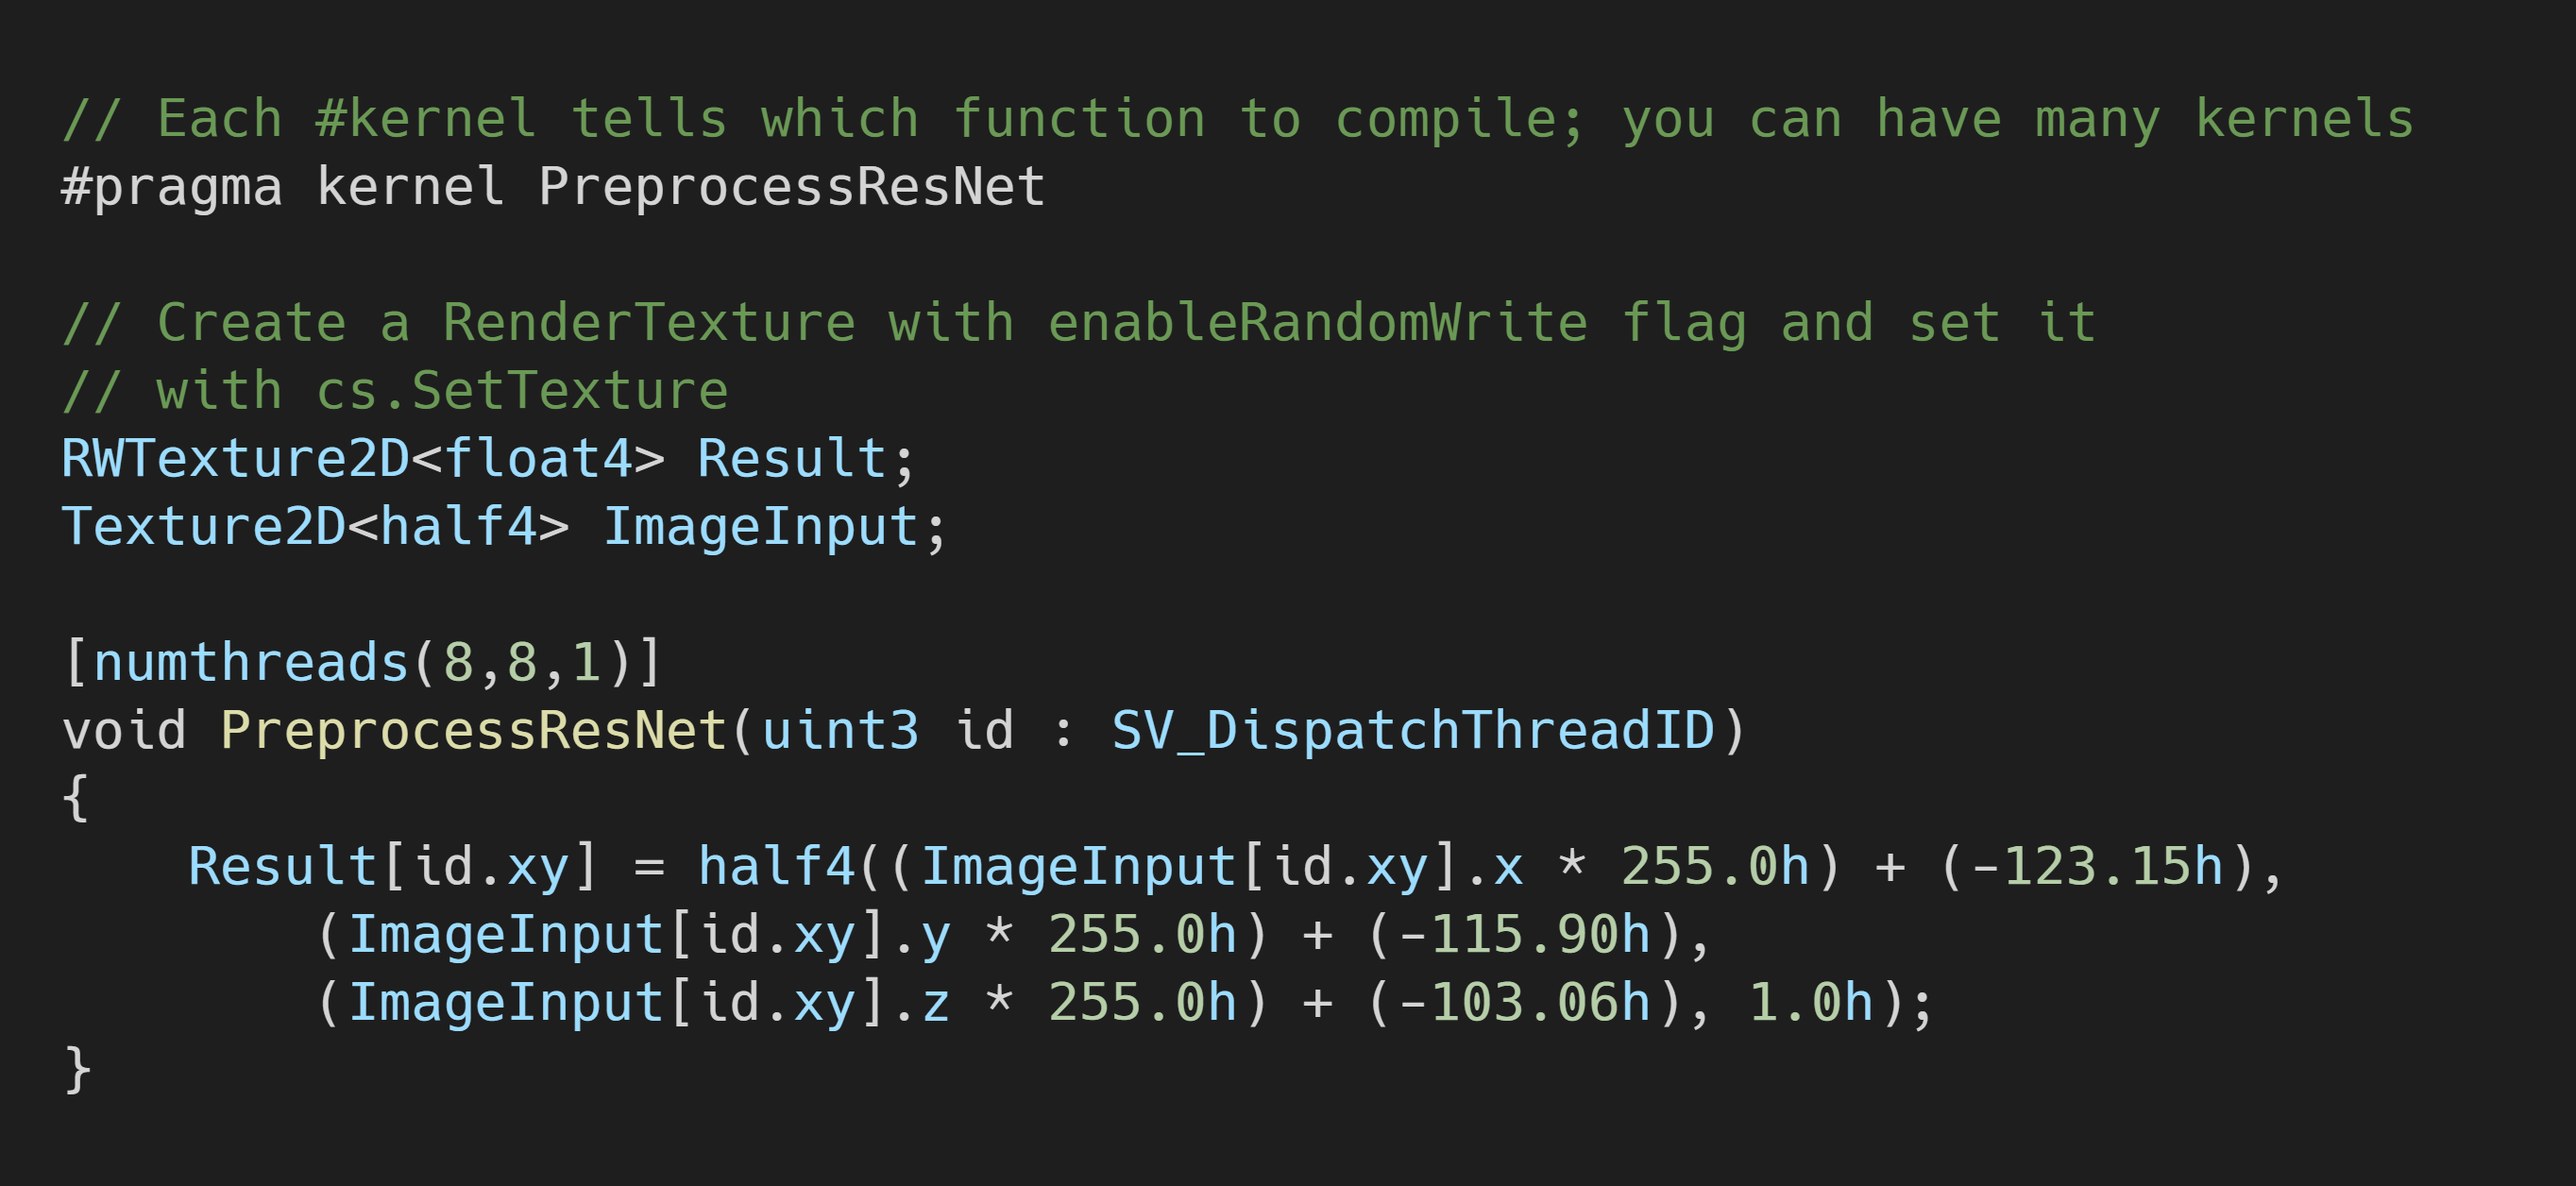
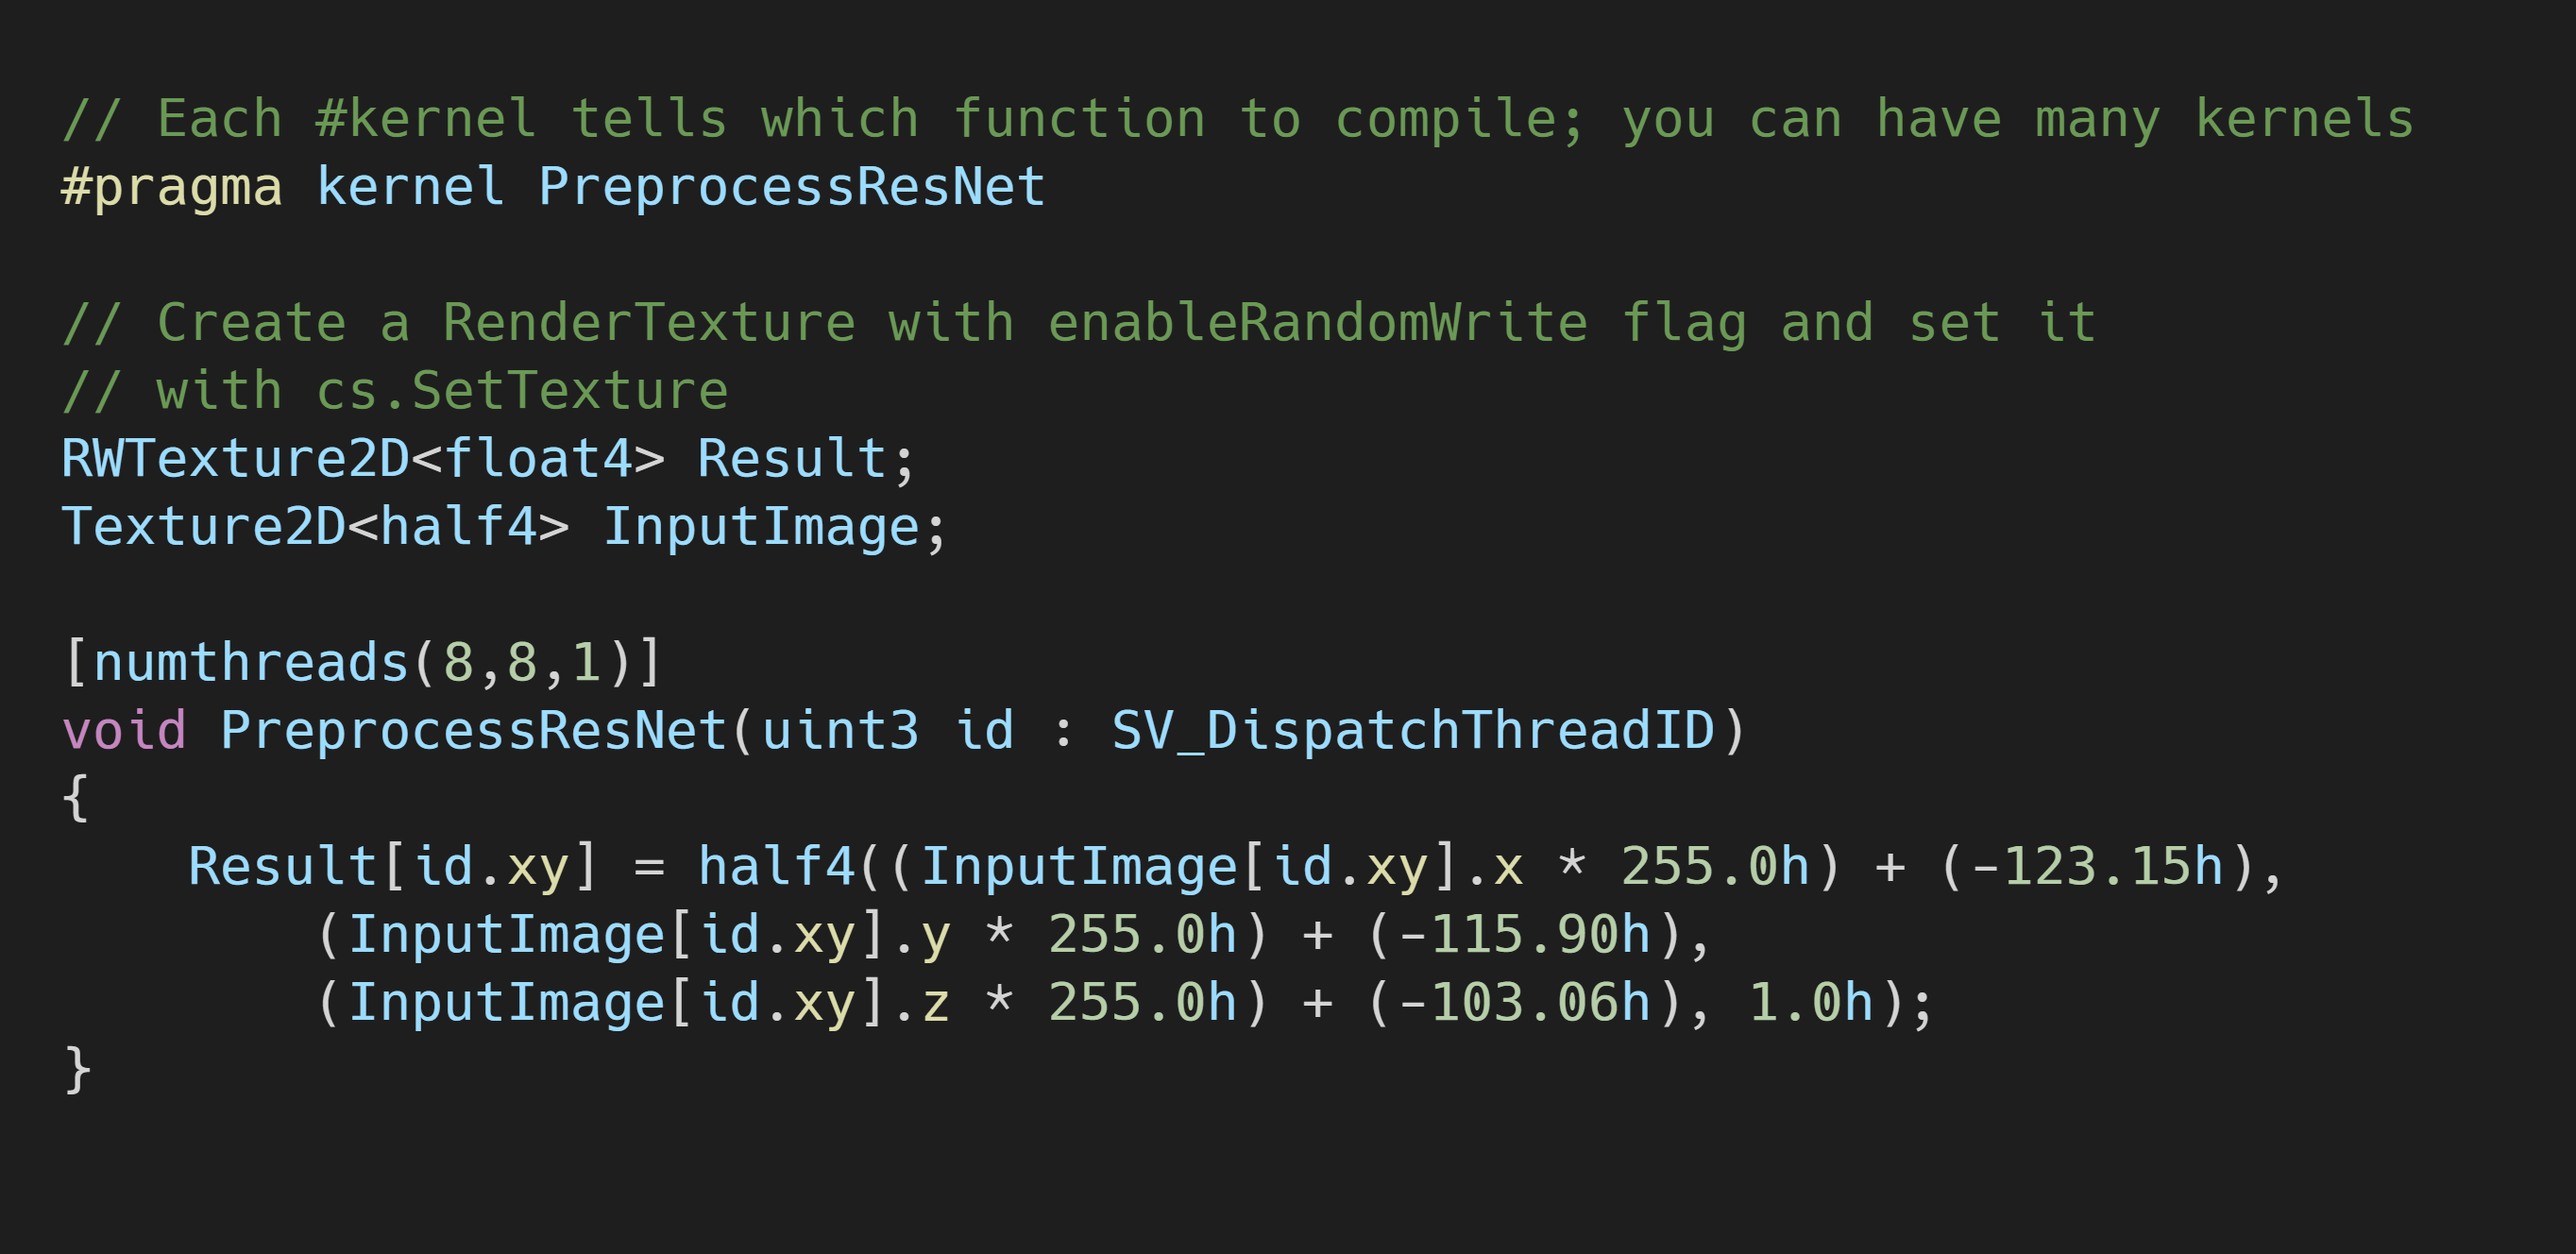
deploy: 9704cb448c7b96f4c6ca6ed635730053f15ea6c1

diff --git a/unity/tutorial/2020/10/25/Barracuda-PoseNet-Tutorial-2.html b/unity/tutorial/2020/10/25/Barracuda-PoseNet-Tutorial-2.html
@@ -178,13 +178,13 @@ window.onload = wrap_img;
 
 <p><img src="\images\barracuda-posenet-tutorial\default_compute_shader.png" alt="default_compute_shader" /></p>
 
-<p>We don’t need the <code class="highlighter-rouge">CSMain</code> function so we can delete it along with the <code class="highlighter-rouge">#pragma kernel CSMain</code>. We need to make a new function to apply the ResNet specific preprocessing. We can just name the new function <code class="highlighter-rouge">PreprocessResNet()</code>. We also need to add a <code class="highlighter-rouge">Texture2D</code> variable below the <code class="highlighter-rouge">Result</code> variable. We can name the new variable <code class="highlighter-rouge">ImageInput</code>.</p>
+<p>We don’t need the <code class="highlighter-rouge">CSMain</code> function so we can delete it along with the <code class="highlighter-rouge">#pragma kernel CSMain</code>. We need to make a new function to apply the ResNet specific preprocessing. We can just name the new function <code class="highlighter-rouge">PreprocessResNet()</code>. We also need to add a <code class="highlighter-rouge">Texture2D</code> variable below the <code class="highlighter-rouge">Result</code> variable. We can name the new variable <code class="highlighter-rouge">InputImage</code>.</p>
 
 <p>The updated <code class="highlighter-rouge">ComputeShader</code> should look like this.</p>
 
-<p><img src="\images\barracuda-posenet-tutorial\posenet_compute_shader.png" alt="posenet_compute_shader" /></p>
+<p><img src="..\images\barracuda-posenet-tutorial\posenet_compute_shader.png" alt="posenet_compute_shader" /></p>
 
-<p>The <code class="highlighter-rouge">PreprocessResNet</code> function scales the RGB channel values of every pixel by <code class="highlighter-rouge">255</code>. This is necessary because color values are in the range of <code class="highlighter-rouge">[0,1]</code> by default in Unity. The function then adds the ImageNet mean specific to each channel to the scaled values.</p>
+<p>The <code class="highlighter-rouge">PreprocessResNet</code> function scales the RGB channel values of every pixel in the <code class="highlighter-rouge">InputImage</code> by <code class="highlighter-rouge">255</code>. This is necessary because color values are in the range of <code class="highlighter-rouge">[0,1]</code> by default in Unity. The function then adds the ImageNet mean specific to the RGB channels. The updated image is returned in the <code class="highlighter-rouge">Result</code> variable.</p>
 
 
   </div><a class="u-url" href="/unity/tutorial/2020/10/25/Barracuda-PoseNet-Tutorial-2.html" hidden></a>
